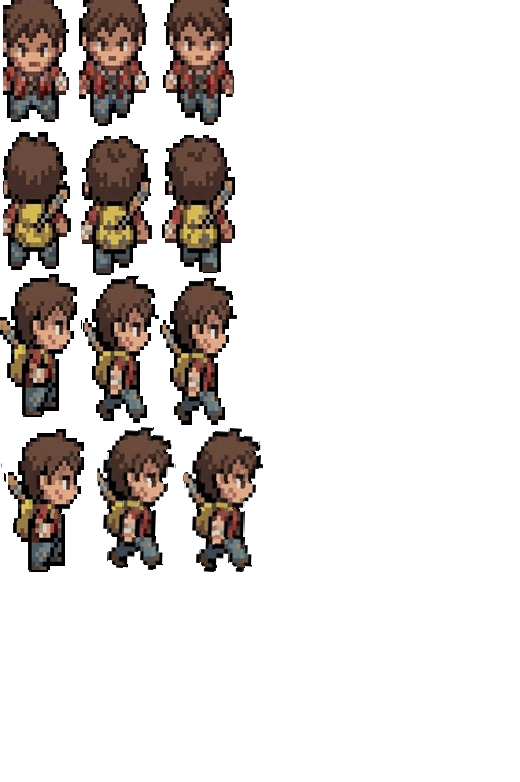
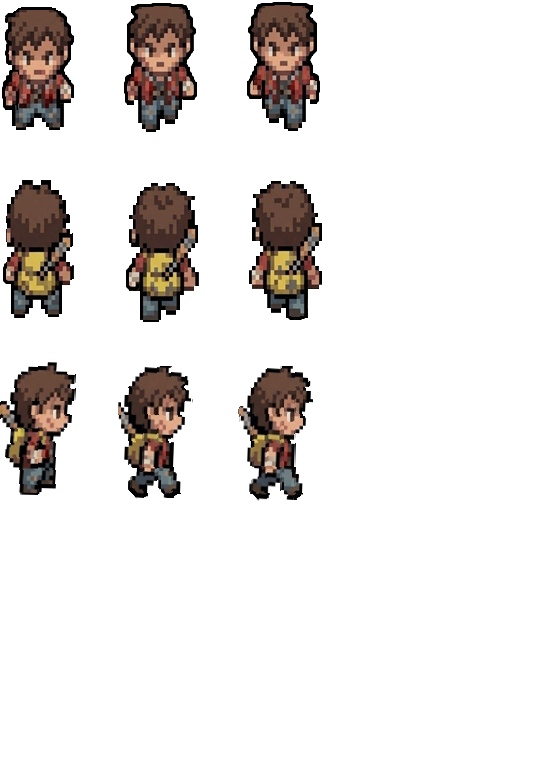
добавил карту

Changed region(s): [[0.0, 0.0, 0.6154, 0.7366]]

diff --git a/player.cpp b/player.cpp
@@ -2,8 +2,6 @@
 
 using namespace sf;
 
-std::vector<sf::Texture> frames;
-
 Player::Player()
     : texture()
     , sprite(texture)
@@ -12,8 +10,8 @@ Player::Player()
     , animationSpeed(0.15f)
     , speed(300.f)
     , isMoving(false)
-    , frameSize(72, 133)
-    , frameSpacing(10, 8)
+    , frameSize(73, 133)
+    , frameSpacing(50, 50)
     , framesPerRow(3)
     , direction(Down)
 {
@@ -23,105 +21,92 @@ Player::Player()
     rightRowOffsets = std::vector<int>(framesPerRow, 0);
 
     sprite.setTexture(texture);
-    sprite.setTextureRect(sf::IntRect({ 0, 0 }, frameSize));
+    sprite.setTextureRect(IntRect({ 0, 0 }, frameSize));
     sprite.setOrigin(sf::Vector2f(frameSize.x / 2.f, frameSize.y / 2.f));
     sprite.setPosition({ 960.f, 540.f });
-    sprite.setScale(sf::Vector2f(1.f, 1.f));
 }
 
-void Player::handleInput(float dt)
-{
+void Player::handleInput(float dt) {
     Vector2f movement(0.f, 0.f);
     isMoving = false;
 
-    if (Keyboard::isKeyPressed(Keyboard::Key::W))
-    {
+    if (Keyboard::isKeyPressed(Keyboard::Key::W)) {
         movement.y -= speed * dt;
         direction = Up;
         isMoving = true;
     }
 
-    if (Keyboard::isKeyPressed(Keyboard::Key::S))
-    {
+    if (Keyboard::isKeyPressed(Keyboard::Key::S)) {
         movement.y += speed * dt;
         direction = Down;
         isMoving = true;
     }
 
-    if (Keyboard::isKeyPressed(Keyboard::Key::A))
-    {
+    if (Keyboard::isKeyPressed(Keyboard::Key::A)) {
         movement.x -= speed * dt;
         direction = Left;
         isMoving = true;
-        sprite.setScale(sf::Vector2f(-1.f, 1.f));
+        sprite.setScale({ -1.f, 1.f });
+		sprite.setOrigin({ frameSize.x, frameSize.y});
     }
 
-    if (Keyboard::isKeyPressed(Keyboard::Key::D))
-    {
+    if (Keyboard::isKeyPressed(Keyboard::Key::D)) {
         movement.x += speed * dt;
         direction = Right;
         isMoving = true;
-        sprite.setScale(sf::Vector2f(1.f, 1.f));
+        sprite.setScale({ 1.f, 1.f });
+        sprite.setOrigin({0.f, frameSize.y });
     }
 
     sprite.move(movement);
 }
 
-void Player::update(float dt)
-{
-    if (isMoving)
-    {
-    animationTimer += dt;
+void Player::update(float dt) {
+    if (isMoving) {
+        animationTimer += dt;
 
-    if (animationTimer >= animationSpeed)
-    {
-        animationTimer = 0.f;
-        currentFrame++;
+        if (animationTimer >= animationSpeed) {
+            animationTimer = 0.f;
+            currentFrame++;
 
             int maxFrames = 3;
-
-        if (currentFrame >= maxFrames)
-            currentFrame = 0;
+            if (currentFrame >= maxFrames)
+                currentFrame = 0;
         }
     }
-    else
-    {
-
+    else {
         animationTimer = 0.f;
         currentFrame = 0;
     }
 
-        int row = 0;
+    int row = 0;
 
-        switch (direction)
-        {
-        case Down:  row = 0; break;
-        case Up:    row = 1; break;
-        case Left:  row = 2; break;
-        case Right: row = 2; break;
-        }
+    switch (direction) {
+    case Down: row = 0; break;
+    case Up: row = 1; break;
+    case Left: row = 2; break;
+    case Right: row = 2; break;
+    }
 
- 
     int top = row * (frameSize.y + frameSpacing.y);
-    if (direction == Right)
-    {
+
+    if (direction == Right) {
         int offset = 0;
         if (currentFrame >= 0 && currentFrame < (int)rightRowOffsets.size())
             offset = rightRowOffsets[currentFrame];
+
         top += offset;
     }
 
     sprite.setTextureRect(IntRect(
-            { currentFrame * (frameSize.x + frameSpacing.x), top },
-            frameSize
-        ));
-    }
+        { currentFrame * (frameSize.x + frameSpacing.x), top },
+        frameSize
+    ));
+}
 
-void Player::draw(RenderWindow& window)
-{
+void Player::draw(sf::RenderWindow& window) {
     window.draw(sprite);
 }
-Vector2f Player::getPosition() const
-{
+sf::Vector2f Player::getPosition() const {
     return sprite.getPosition();
 }

diff --git a/game.cpp b/game.cpp
@@ -2,19 +2,15 @@
 #include <optional>
 
 using namespace sf;
-using namespace std;
 
 Game::Game()
-    : window(VideoMode::getDesktopMode(), "CursedTown", Style::None)
+    : window(sf::VideoMode::getDesktopMode(), "CursedTown", sf::Style::None)
+    , view(window.getDefaultView())
 {
-    view.setSize(sf::Vector2f(window.getSize()));
-    view.setCenter(sf::Vector2f(window.getSize()) / 2.f);
 }
 
-void Game::run()
-{
-    while (window.isOpen())
-    {
+void Game::run() {
+    while (window.isOpen()) {
         float dt = clock.restart().asSeconds();
 
         processEvents();
@@ -23,27 +19,24 @@ void Game::run()
     }
 }
 
-void Game::processEvents()
-{
-    while (const optional event = window.pollEvent())
-    {
-        if (event->is<Event::Closed>())
+void Game::processEvents() {
+    while (const std::optional<Event> event = window.pollEvent()) {
+        if (event->is<Event::Closed>()) {
             window.close();
+        }
     }
 }
 
-void Game::update(float dt)
-{
+void Game::update(float dt) {
     player.handleInput(dt);
     player.update(dt);
 
     view.setCenter(player.getPosition());
 }
-
-void Game::render()
-{
+void Game::render() {
     window.clear();
     window.setView(view);
+    map.draw(window);
     player.draw(window);
     window.display();
 }

diff --git a/player.hpp b/player.hpp
@@ -1,18 +1,17 @@
 #pragma once
+
 #include <SFML/Graphics.hpp>
 #include <vector>
 
-extern std::vector<sf::Texture> frames;
-class Player
-{
+class Player {
 public:
     Player();
-
-    sf::Vector2f getPosition() const;
 
     void handleInput(float dt);
     void update(float dt);
     void draw(sf::RenderWindow& window);
+
+    sf::Vector2f getPosition() const;
 
 private:
     sf::Texture texture;
@@ -21,22 +20,18 @@ private:
     int currentFrame;
     float animationTimer;
     float animationSpeed;
+
     float speed;
     bool isMoving;
 
     sf::Vector2i frameSize;
     sf::Vector2i frameSpacing;
+
     int framesPerRow;
     std::vector<int> rightRowOffsets;
+
     sf::Image textureImage;
 
-    enum Direction
-    {
-        Down,
-        Up,
-        Left,
-        Right
-    };
-
+    enum Direction { Down, Up, Left, Right };
     Direction direction;
 };

diff --git a/map.cpp b/map.cpp
@@ -1,0 +1,24 @@
+#include "Map.hpp"
+#include <iostream>
+
+Map::Map()
+    : texture()
+    , sprite(texture)
+{
+    if (!texture.loadFromFile("assets/map.png")) {
+        std::cout << "Failed to load map.png\n";
+    }
+
+    texture.setRepeated(true);
+
+    sprite.setTextureRect(sf::IntRect(
+        sf::Vector2i(0, 0),
+        sf::Vector2i(10000, 10000)
+    ));
+
+    sprite.setPosition({ 0.f, 0.f });
+}
+
+void Map::draw(sf::RenderWindow& window) {
+    window.draw(sprite);
+}

diff --git a/game.hpp b/game.hpp
@@ -1,6 +1,8 @@
 #pragma once
+
 #include <SFML/Graphics.hpp>
 #include "Player.hpp"
+#include "Map.hpp"
 
 class Game {
 public:
@@ -17,4 +19,5 @@ private:
     sf::View view;
 
     Player player;
-};  
+    Map map;
+};

diff --git a/map.hpp b/map.hpp
@@ -1,0 +1,12 @@
+#pragma once
+#include <SFML/Graphics.hpp>
+
+class Map {
+public:
+    Map();
+    void draw(sf::RenderWindow& window);
+
+private:
+    sf::Texture texture;
+    sf::Sprite sprite;
+};

diff --git a/main.cpp b/main.cpp
@@ -1,7 +1,7 @@
 #include "Game.hpp"
 
-int main()
-{
+int main() {
     Game game;
     game.run();
+    return 0;
 }
